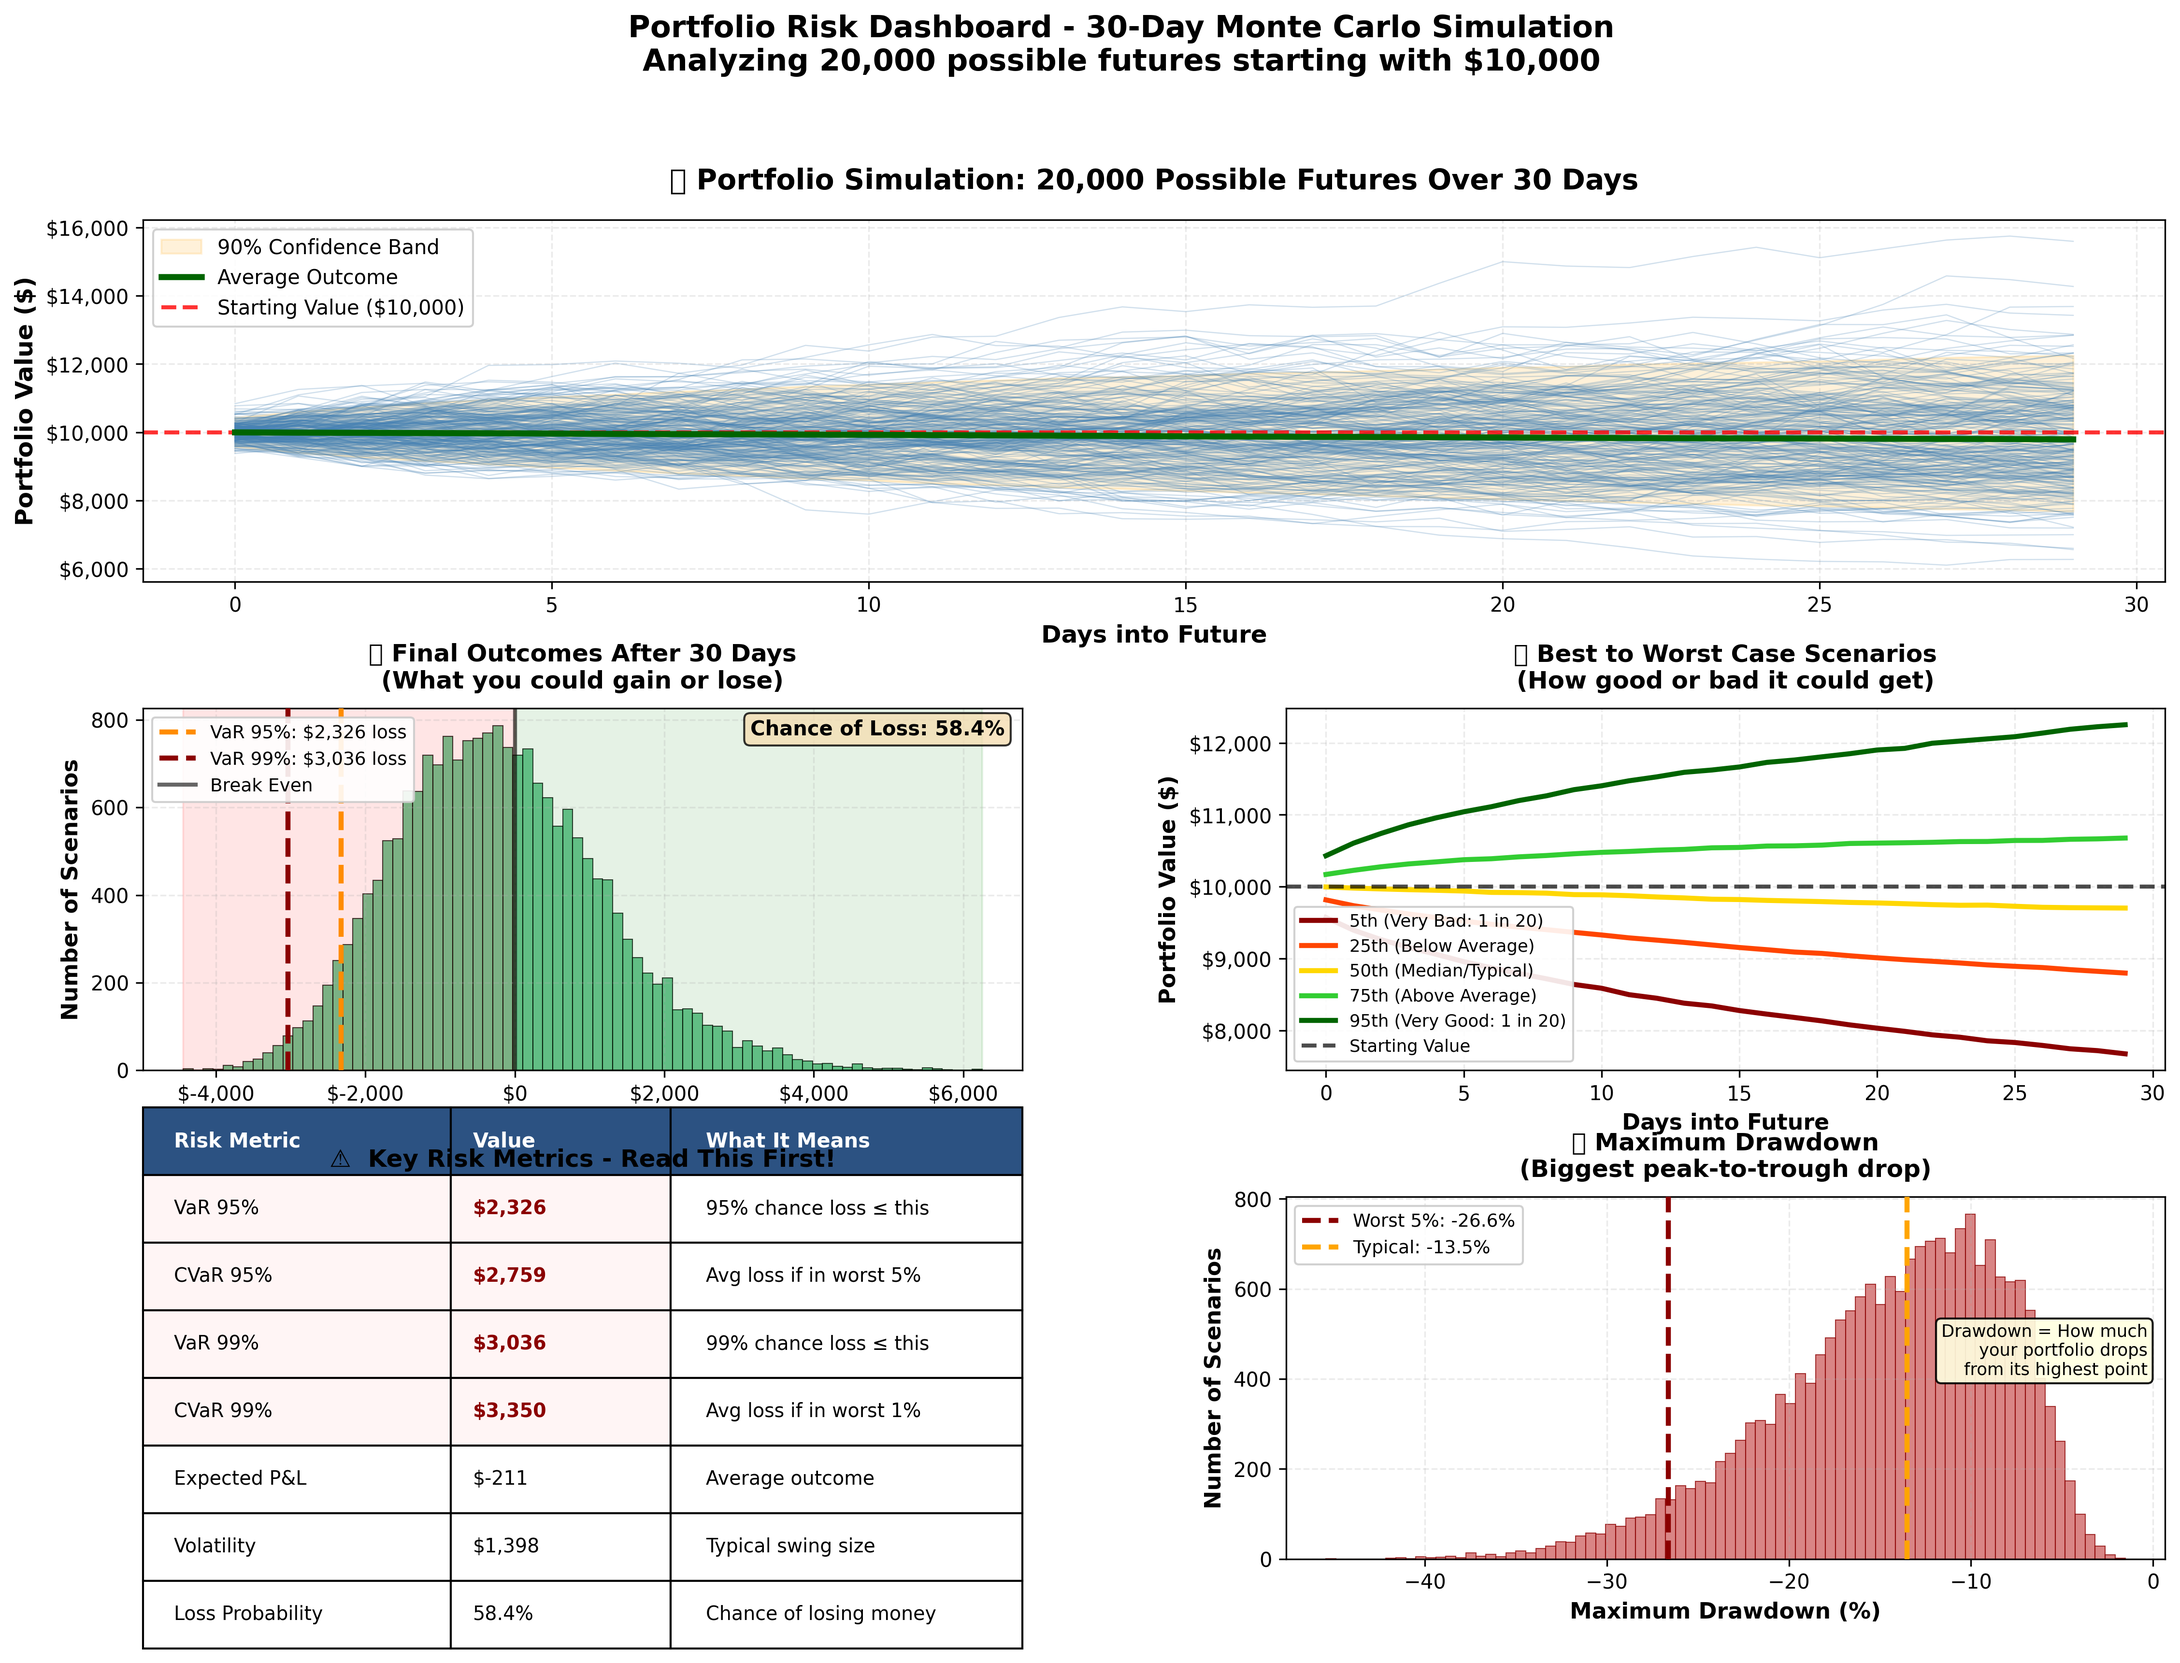
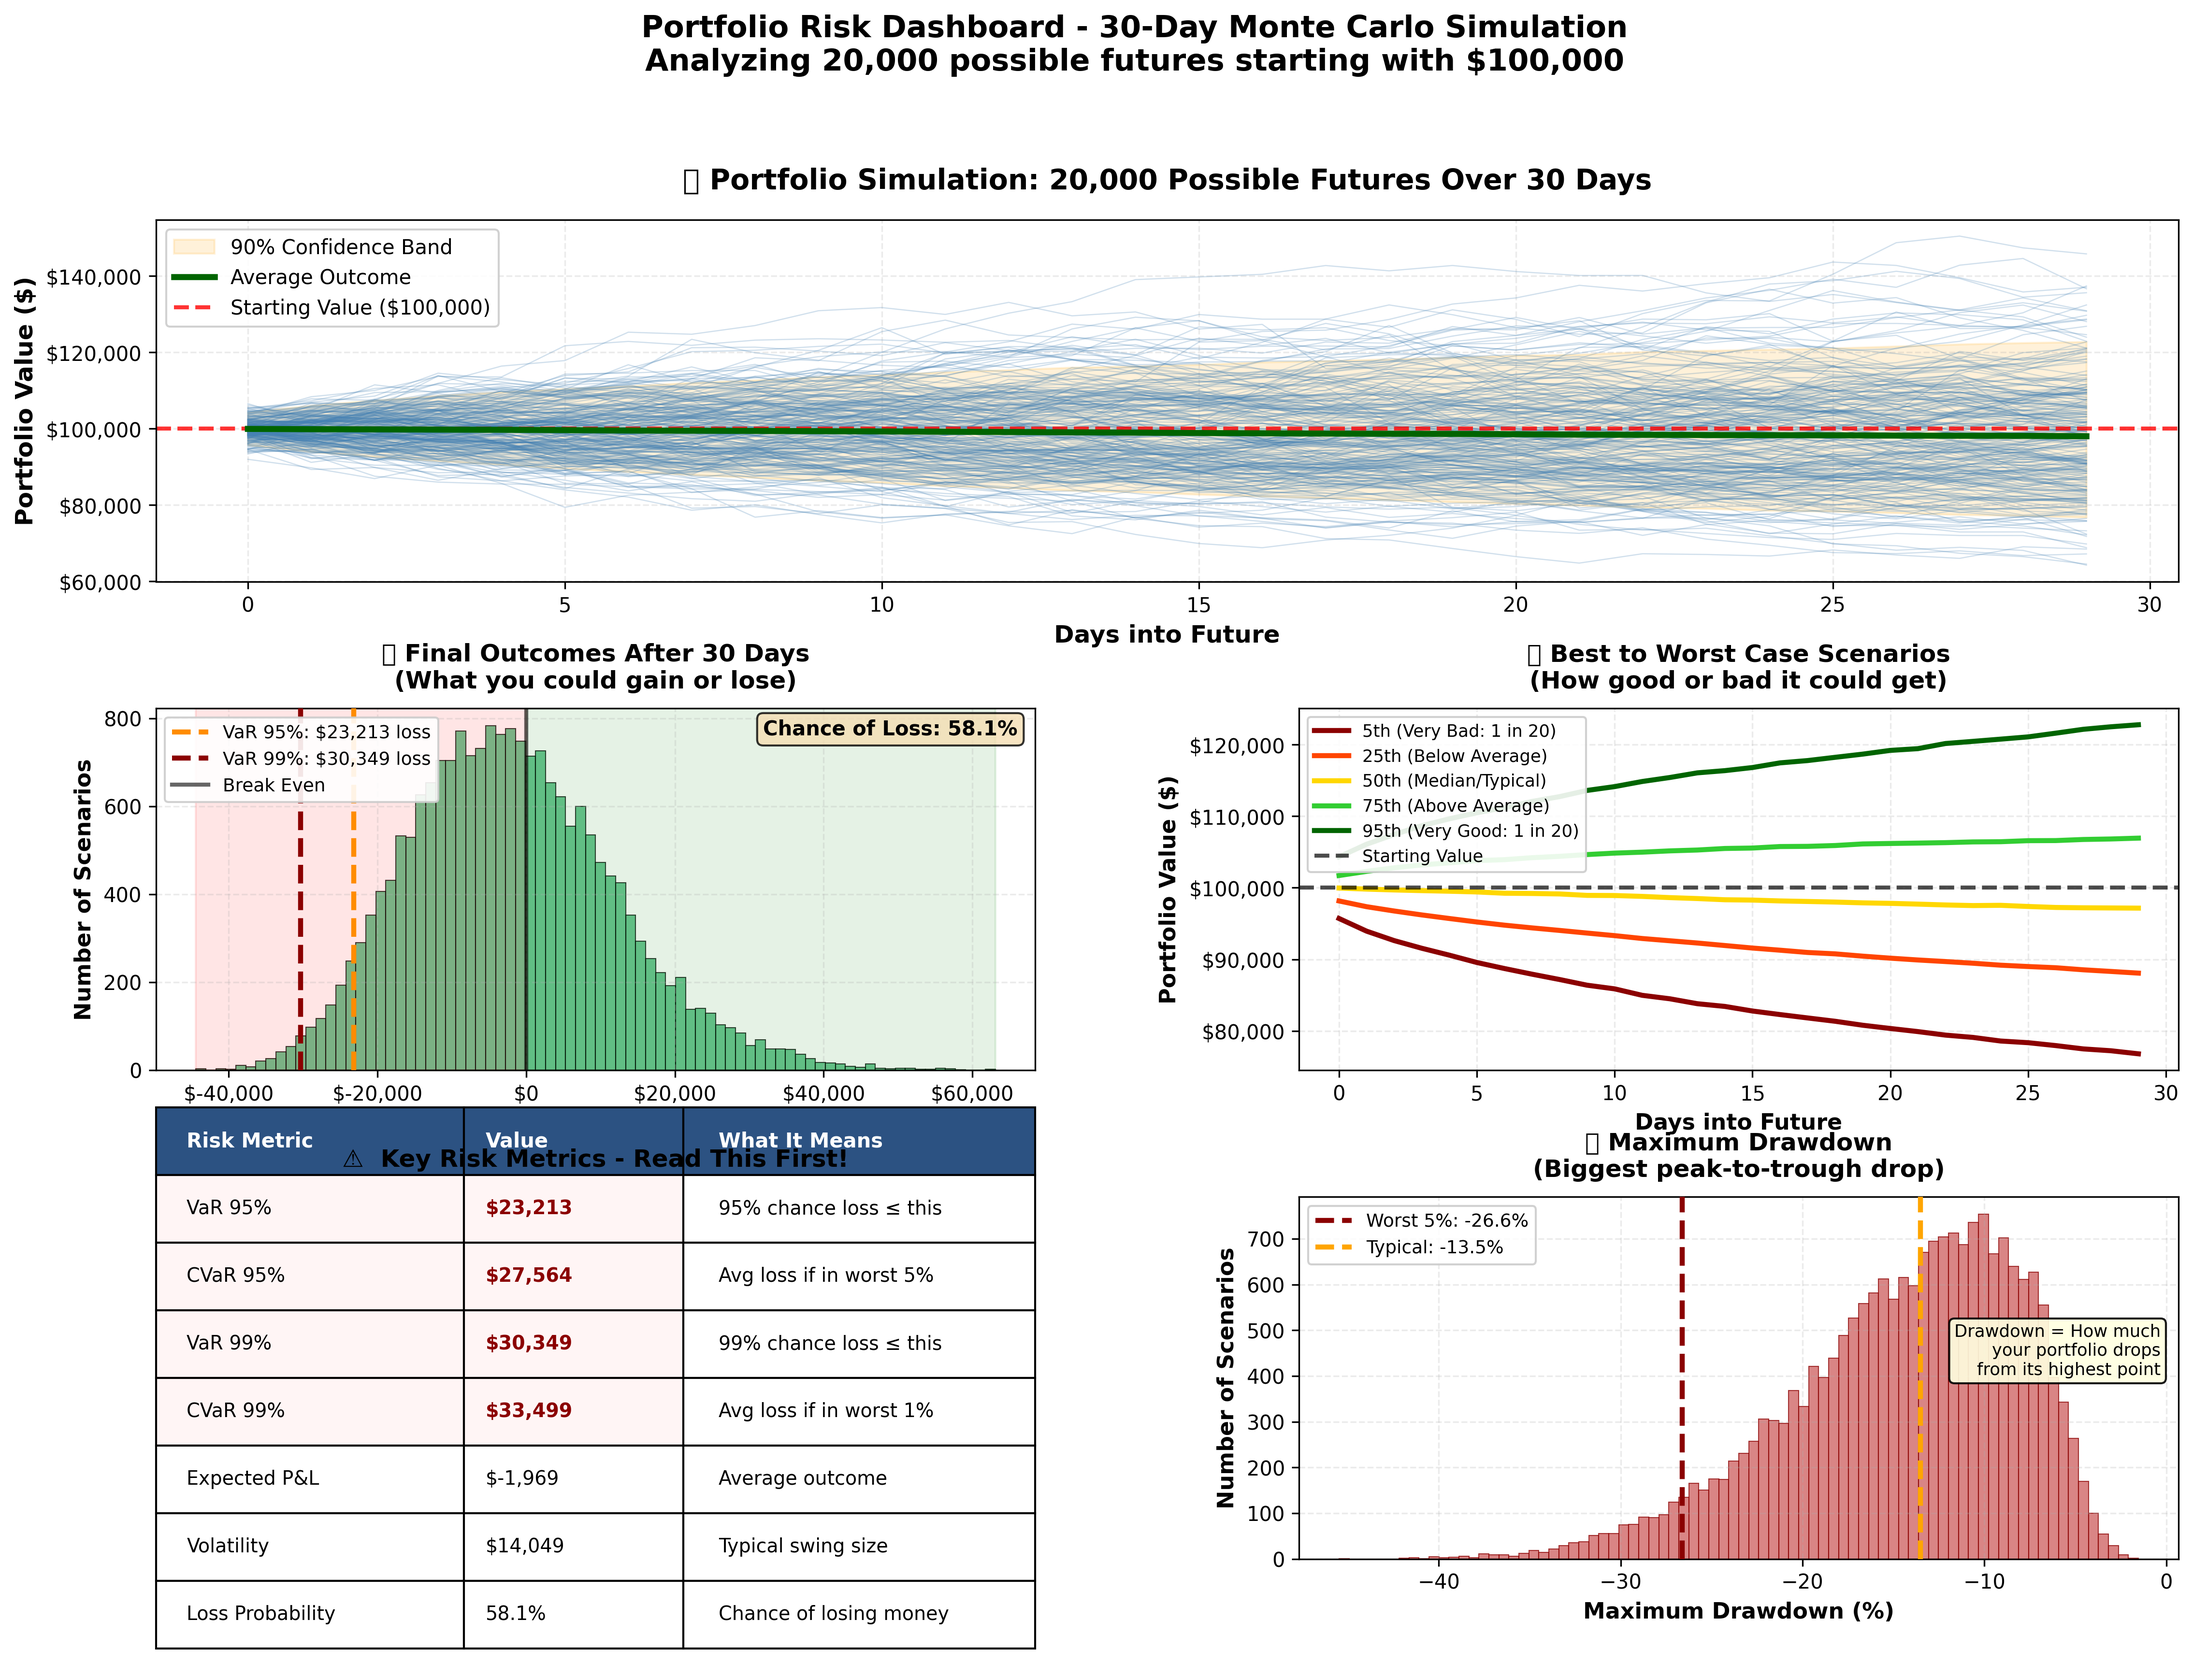
done

diff --git a/run_analysis.py b/run_analysis.py
@@ -80,7 +80,7 @@ def main():
         print(f"     {token:12s}: {weight:.2%}")
     
     print("\n4⃣  Running Monte Carlo simulation...")
-    initial_value = 10000.0
+    initial_value = 100000.0
     config = MCConfig(horizon_days=30, n_paths=20000, seed=42)
     sim = simulate_correlated_returns(mu=mu, cov=cov, config=config)
     pnl = portfolio_path_pnl(sim, weights=weights, initial_value=initial_value)
